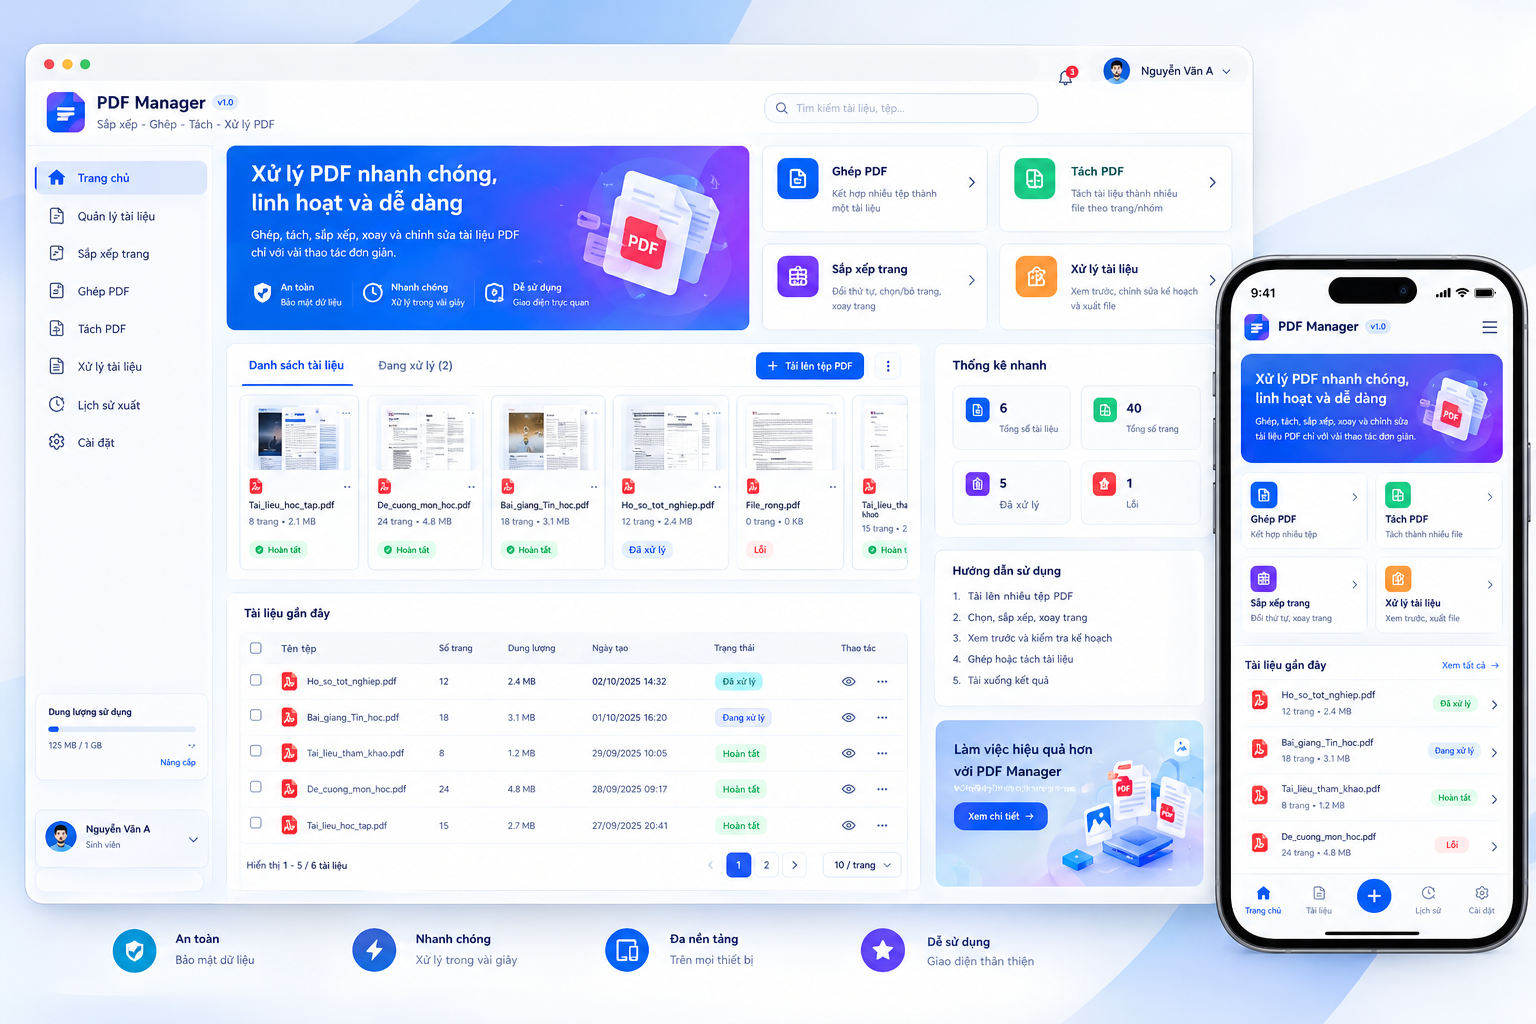
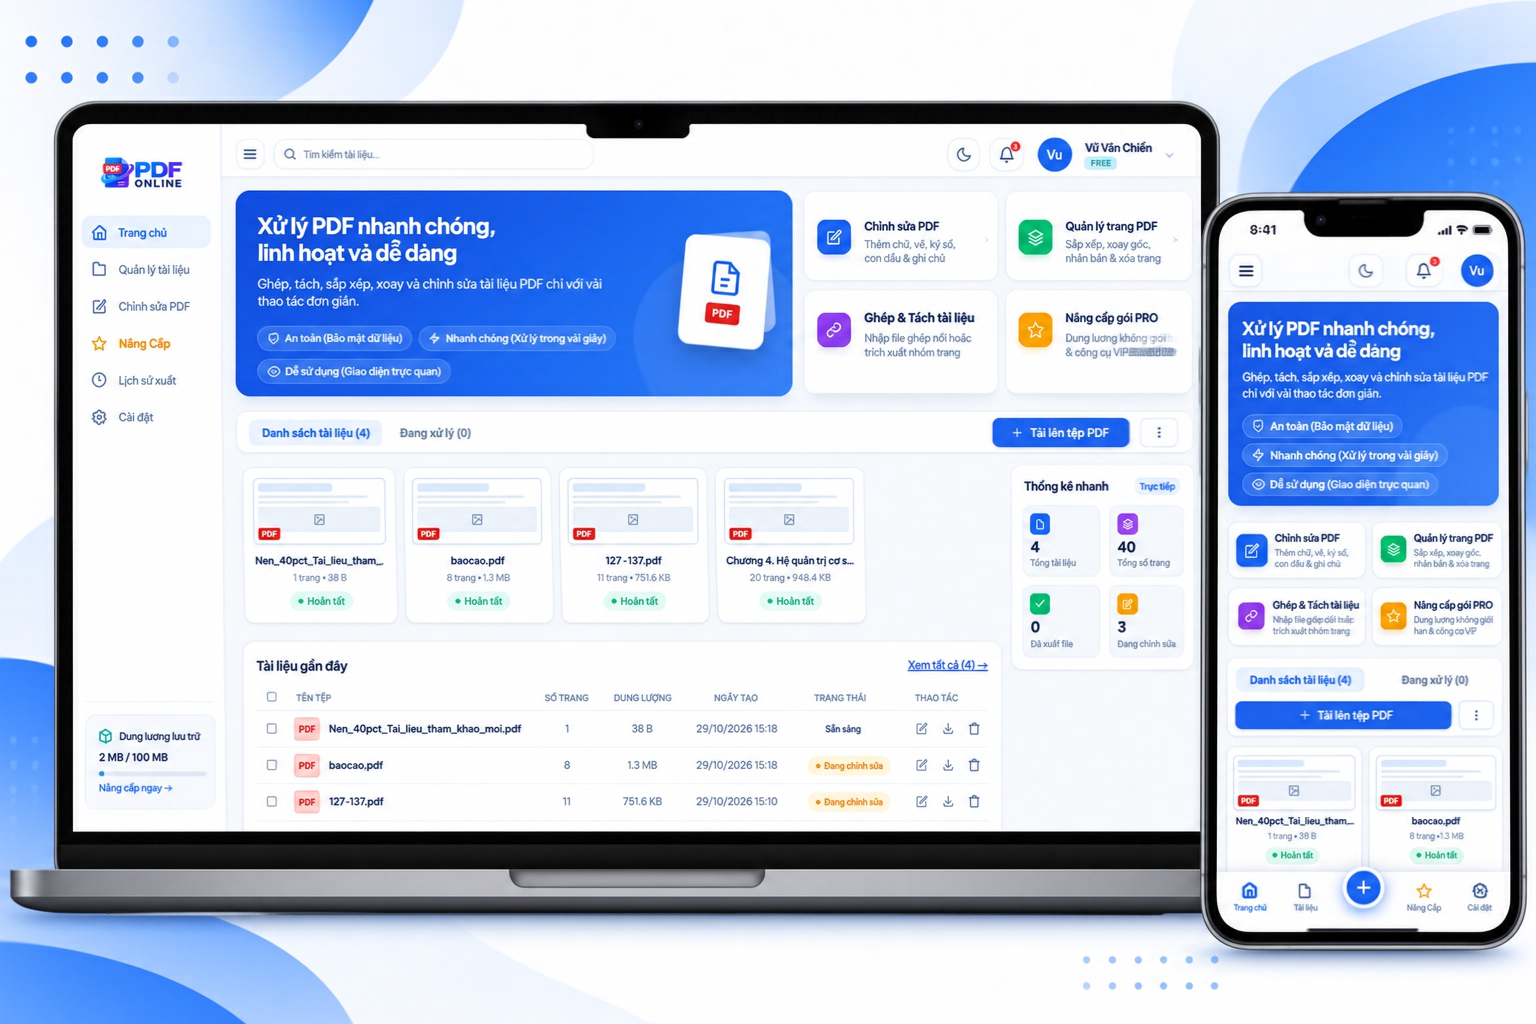
up

diff --git a/README.md b/README.md
@@ -26,14 +26,14 @@
 
 ---
 
-## 📸 GIAO DIỆN DEMO HỆ THỐNG (PDF MANAGER v1.0)
+## 📸 GIAO DIỆN DEMO HỆ THỐNG 
 
 Ứng dụng được thiết kế theo phong cách hiện đại, trực quan, hỗ trợ đầy đủ chế độ hiển thị trên Desktop và Thiết bị di động (Responsive):
 
 <p align="center">
-  <img src="giaodien_demo.png" alt="Giao diện PDF Manager v1.0" width="100%">
+  <img src="giaodien_demo.png" alt="Giao diện PDF Online" width="100%">
   <br>
-  <em>Hình 1: Bản thiết kế giao diện chính Dashboard và Bộ công cụ xử lý PDF của hệ thống PDF Manager</em>
+  <em>Hình 1: Bản thiết kế giao diện chính Dashboard và Bộ công cụ xử lý PDF của hệ thống PDF Online</em>
 </p>
 
 ---
@@ -43,7 +43,7 @@
 ### 🎯 Bối Cảnh Thực Tế
 Trong học tập và làm việc, người dùng thường xuyên sở hữu nhiều tệp tài liệu PDF rời rạc (chứng chỉ, đề cương, bảng điểm, biểu mẫu hành chính) và cần kết hợp thành một bộ hồ sơ đồng nhất, loại bỏ các trang trắng/trang thừa hoặc xoay lại các trang bị scan ngược chiều. Các công cụ trực tuyến hiện nay thường bắt buộc tải tệp lên máy chủ bên thứ ba gây rủi ro lộ dữ liệu, hoặc yêu cầu trả phí để thực hiện các thao tác căn bản.
 
-Ứng dụng **PDF Manager** mang lại giải pháp xử lý PDF trực tiếp và an toàn:
+Ứng dụng **PDF Online** mang lại giải pháp xử lý PDF trực tiếp và an toàn:
 - Xem trước từng trang trực quan trên trình duyệt.
 - Lựa chọn linh hoạt từng trang từ nhiều tệp khác nhau (Ví dụ: lấy trang 2 của tệp A, hai trang của tệp B ghép theo thứ tự đã định).
 - File xuất ra chuẩn xác tuyệt đối với những gì người dùng quan sát trên bản xem trước.
